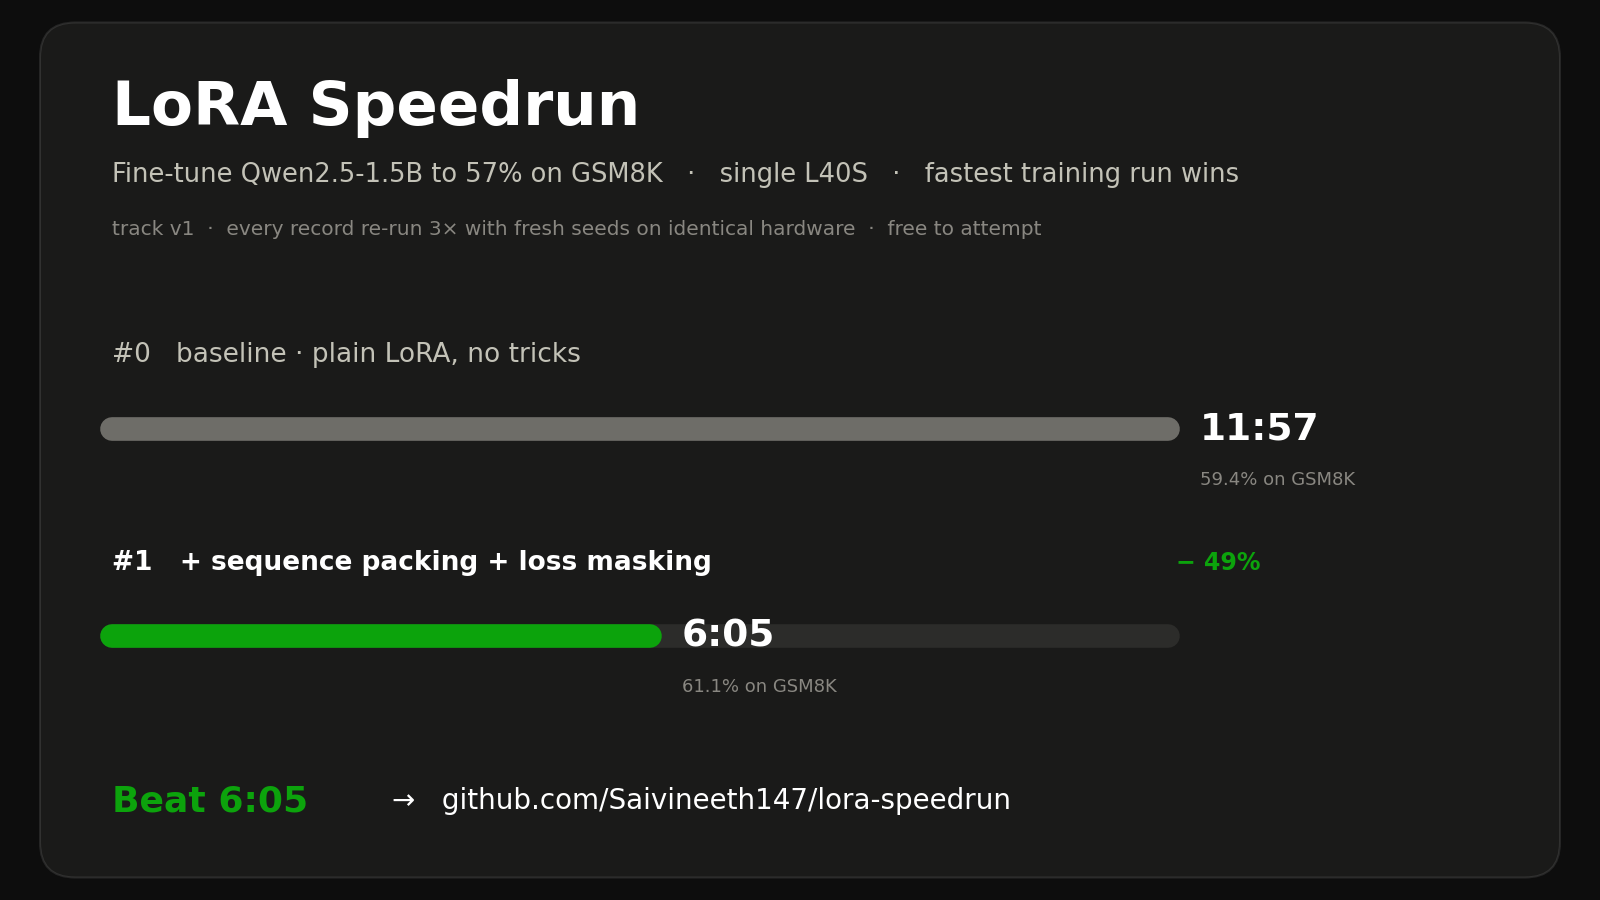
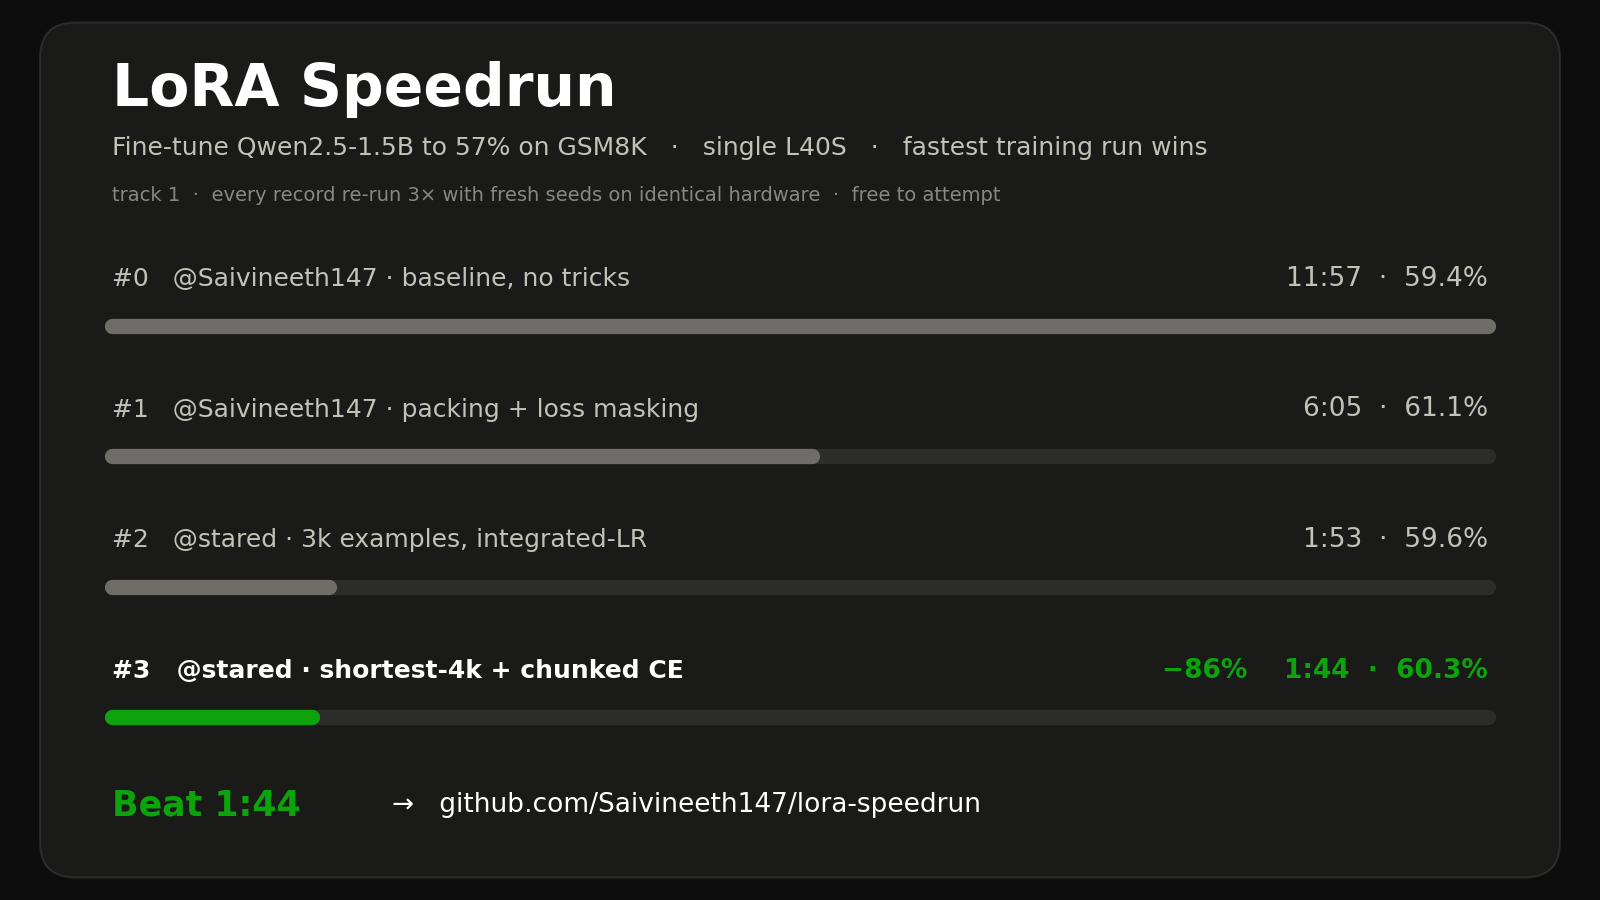
Refresh hero card: full four-record progression, 1:44 current record

diff --git a/README.md b/README.md
@@ -15,7 +15,7 @@ Modal's free monthly compute credits cover full runs — so anyone can compete, 
 can re-verify any record with one command.
 
 <p align="center">
-  <img src="docs/leaderboard.png" alt="LoRA Speedrun leaderboard — baseline 11:57 → record #1 6:05 (−49%) at higher accuracy" width="760">
+  <img src="docs/leaderboard.png" alt="LoRA Speedrun leaderboard — 11:57 baseline to 1:44 current record (−86%) across four verified records" width="760">
 </p>
 
 ## Leaderboard